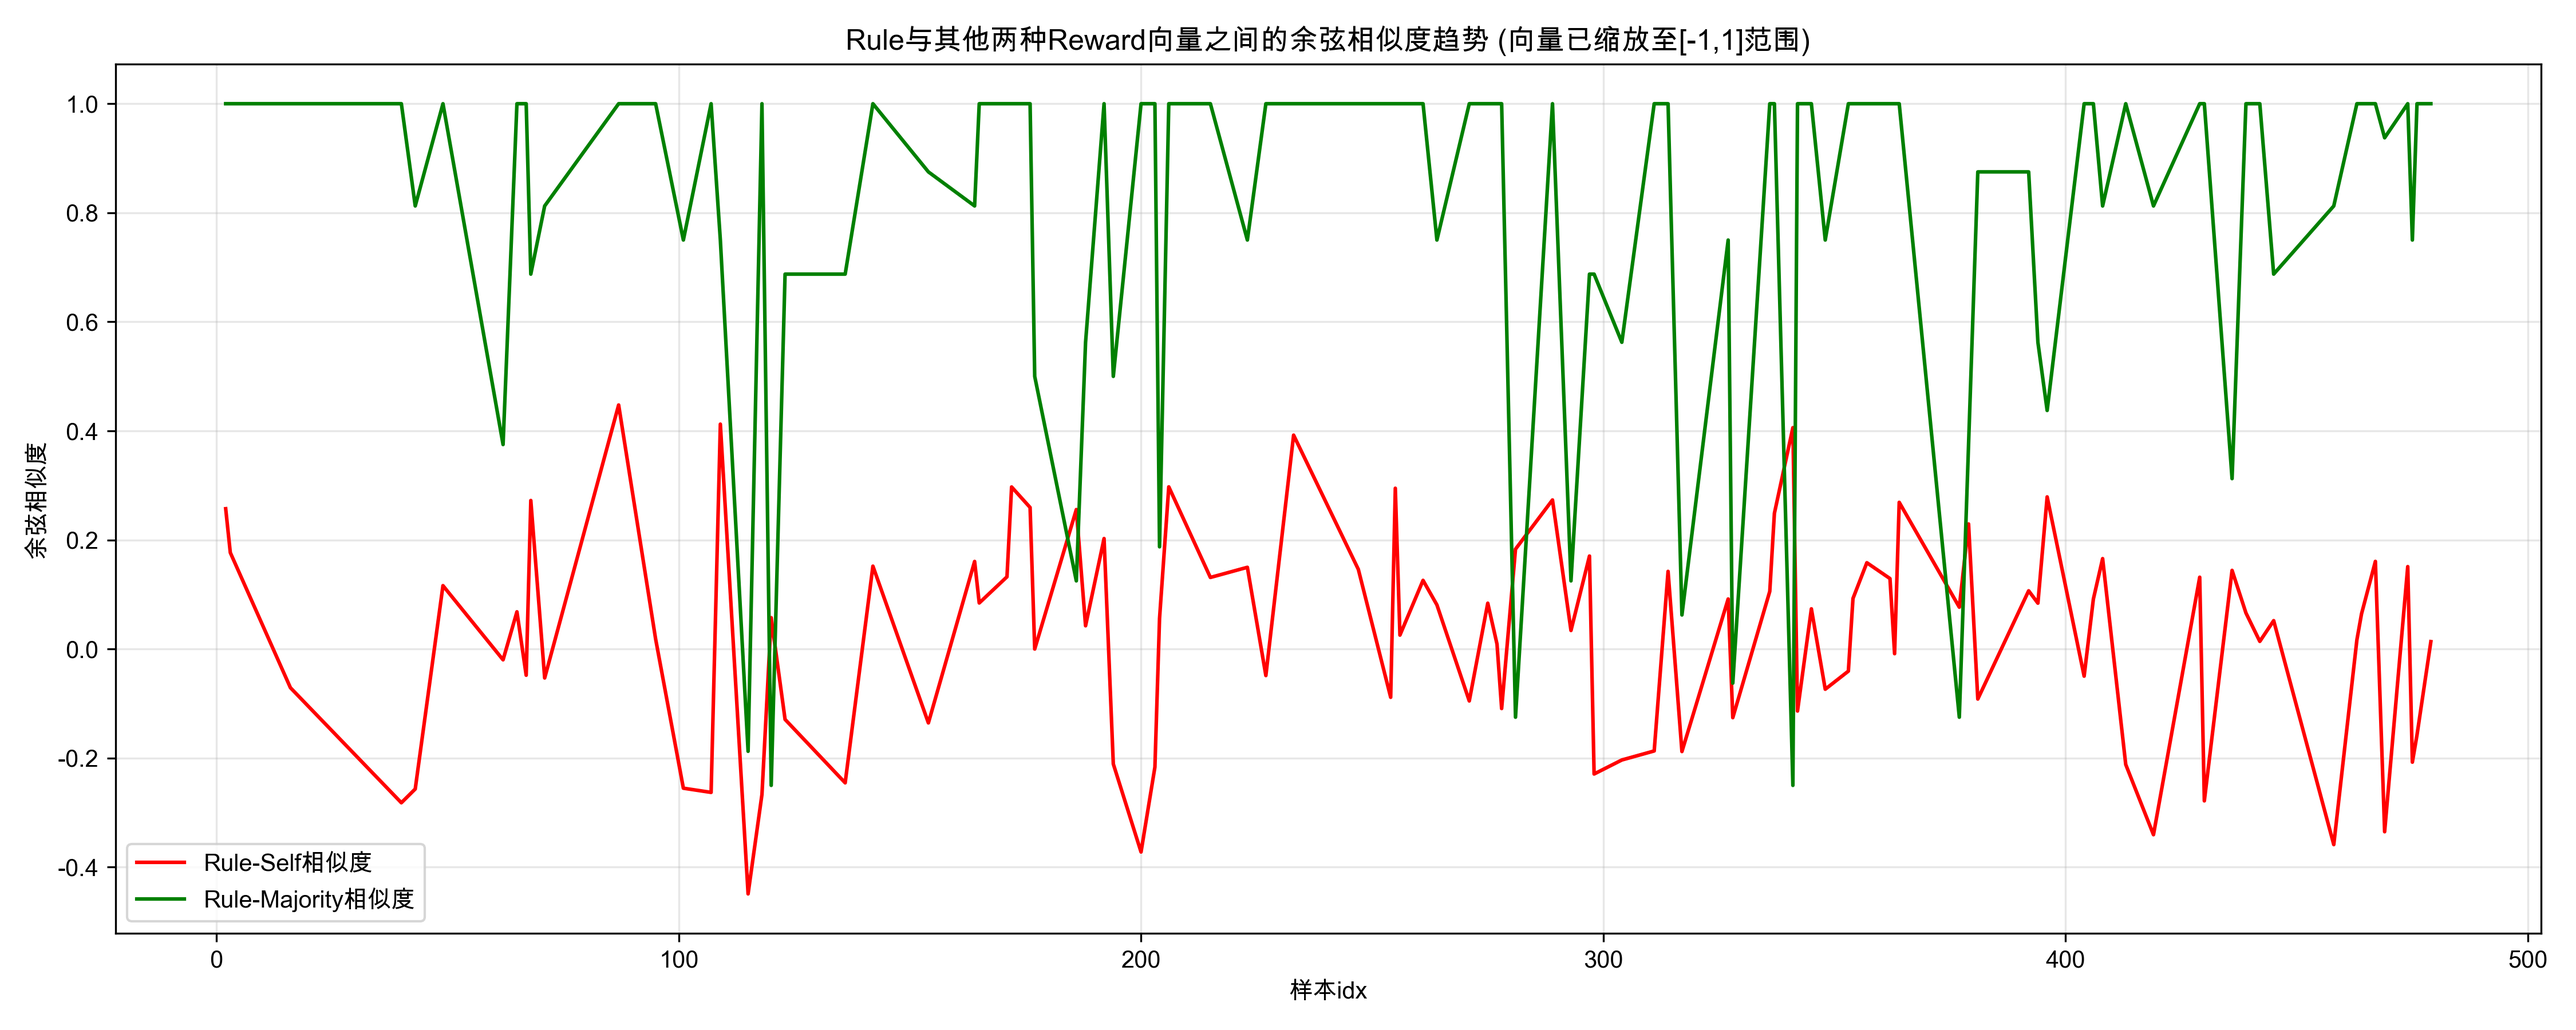
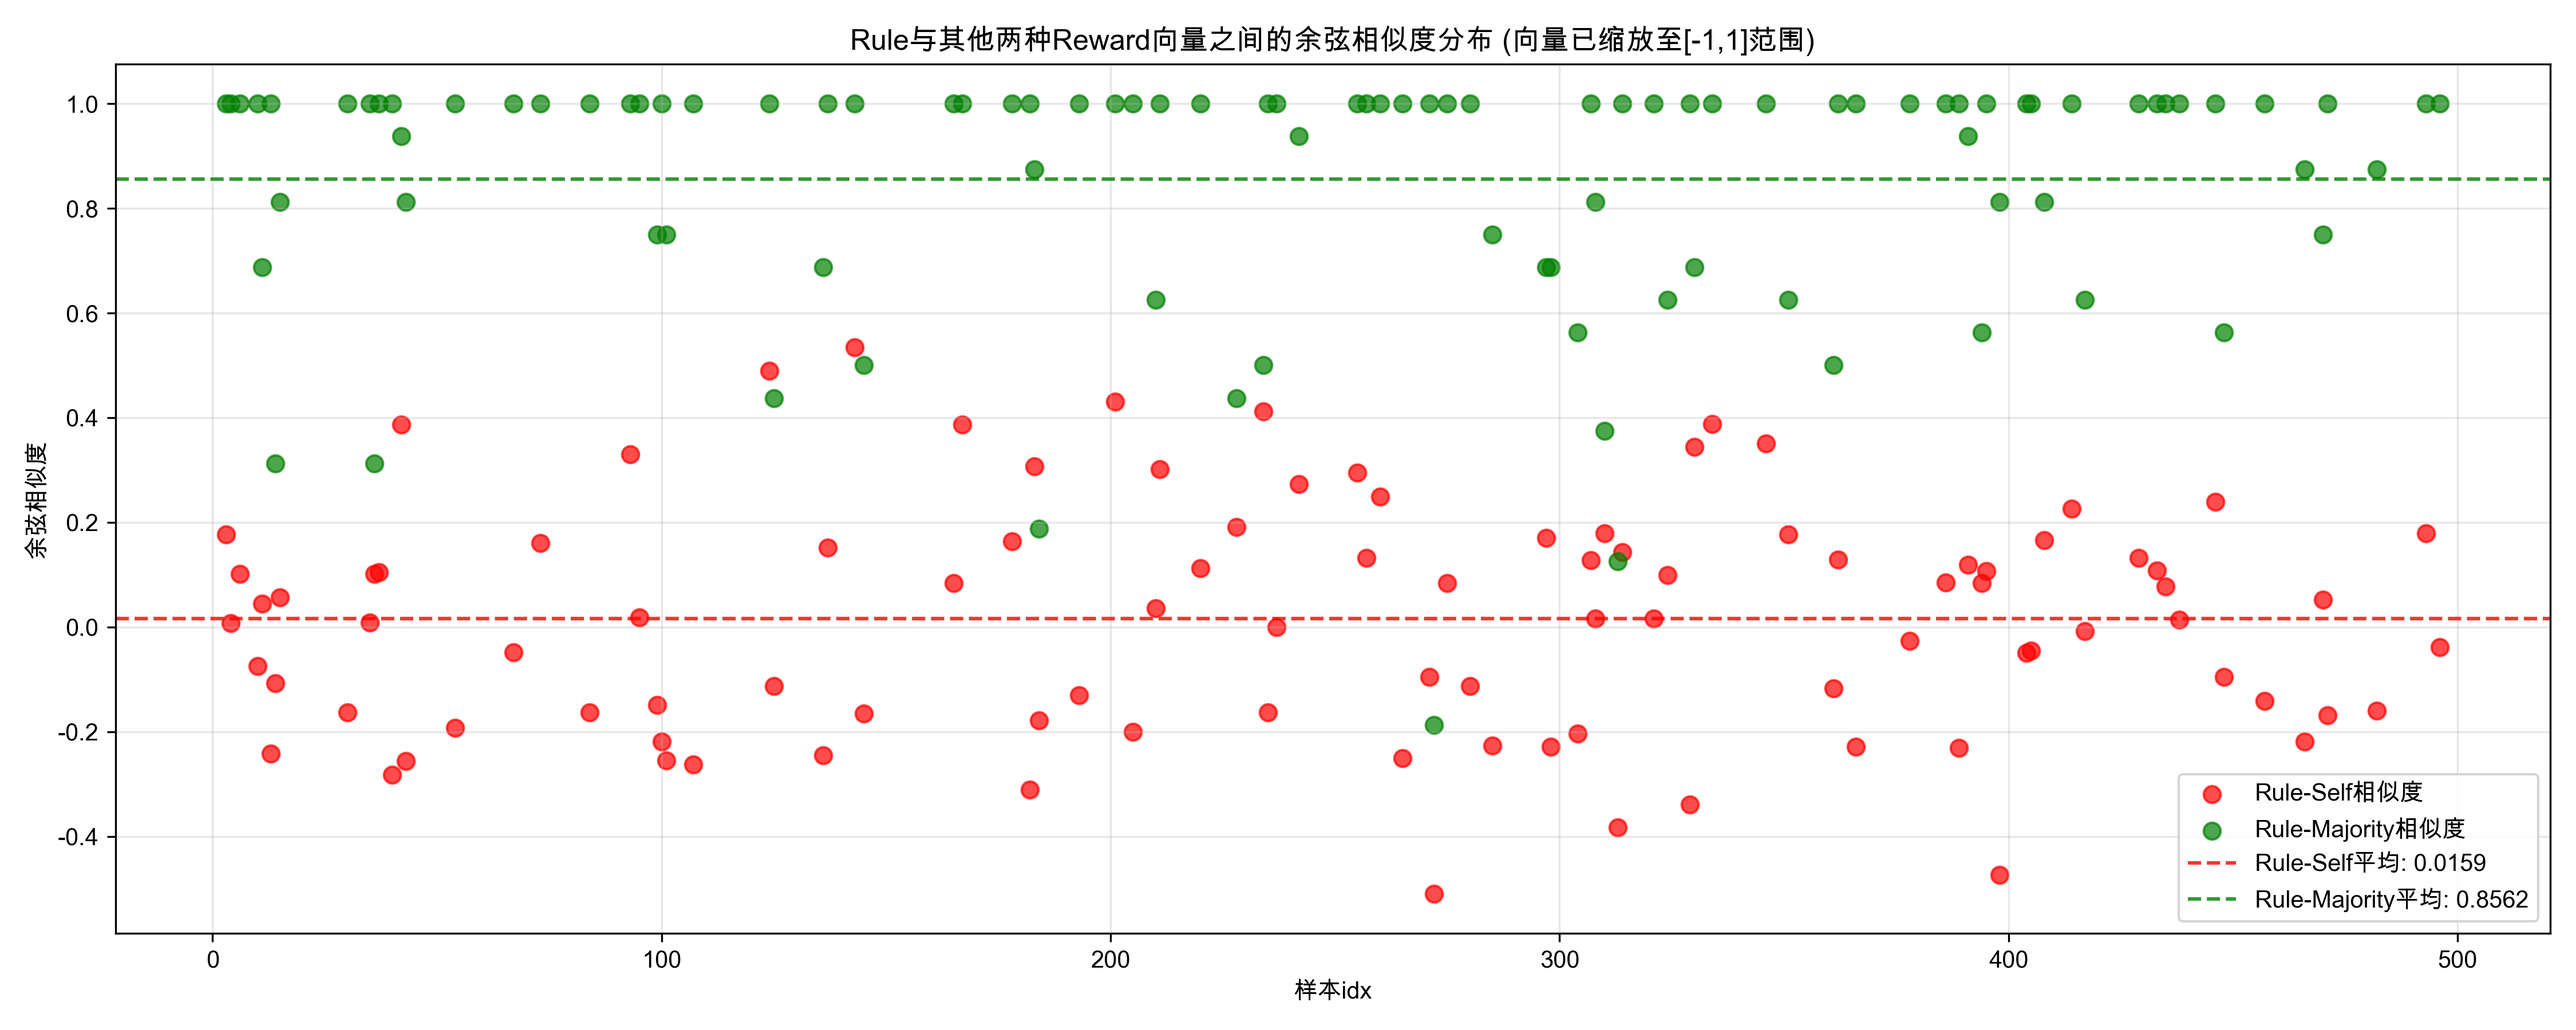
更新visualize_rewards.py，添加t-SNE降维可视化功能，优化了按idx排序的reward余弦相似度趋势图为散点图，并计算并显示平均相似度水平线。同时更新了相关的输出图像文件。

diff --git a/visualize_rewards.py b/visualize_rewards.py
@@ -9,6 +9,7 @@ import matplotlib
 from scipy.spatial.distance import cosine
 from sklearn.metrics.pairwise import cosine_similarity
 import os
+from sklearn.manifold import TSNE
 
 # 设置中文字体支持
 matplotlib.rcParams['font.sans-serif'] = ['SimHei', 'Arial Unicode MS', 'Microsoft YaHei', 'Heiti TC', 'WenQuanYi Zen Hei']  # 中文字体
@@ -227,7 +228,7 @@ def plot_scatter_matrix(df):
     print(f"已保存散点图矩阵: {output_path}")
 
 def plot_rewards_by_idx(df, data, sample_size=100):
-    """方案4: 绘制按idx排序的reward余弦相似度趋势图"""
+    """方案4: 绘制按idx排序的reward余弦相似度趋势图（散点表示）"""
     # 确保输出目录存在
     output_dir = "reward_visualizations"
     os.makedirs(output_dir, exist_ok=True)
@@ -270,12 +271,24 @@ def plot_rewards_by_idx(df, data, sample_size=100):
         rule_self_sim.append(rule_self)
         rule_maj_sim.append(rule_maj)
     
-    # 绘制趋势图
-    plt.figure(figsize=(15, 6))
-    plt.plot(idx_list, rule_self_sim, 'r-', label='Rule-Self相似度')
-    plt.plot(idx_list, rule_maj_sim, 'g-', label='Rule-Majority相似度')
+    # 计算平均相似度
+    avg_rule_self = np.mean(rule_self_sim)
+    avg_rule_maj = np.mean(rule_maj_sim)
     
-    plt.title('Rule与其他两种Reward向量之间的余弦相似度趋势 (向量已缩放至[-1,1]范围)')
+    # 绘制散点图
+    plt.figure(figsize=(15, 6))
+    
+    # 使用散点图而非折线图
+    plt.scatter(idx_list, rule_self_sim, color='red', alpha=0.7, s=50, label='Rule-Self相似度')
+    plt.scatter(idx_list, rule_maj_sim, color='green', alpha=0.7, s=50, label='Rule-Majority相似度')
+    
+    # 添加平均值水平线
+    plt.axhline(y=avg_rule_self, color='red', linestyle='--', alpha=0.8, 
+               label=f'Rule-Self平均: {avg_rule_self:.4f}')
+    plt.axhline(y=avg_rule_maj, color='green', linestyle='--', alpha=0.8, 
+               label=f'Rule-Majority平均: {avg_rule_maj:.4f}')
+    
+    plt.title('Rule与其他两种Reward向量之间的余弦相似度分布 (向量已缩放至[-1,1]范围)')
     plt.xlabel('样本idx')
     plt.ylabel('余弦相似度')
     plt.legend()
@@ -284,7 +297,7 @@ def plot_rewards_by_idx(df, data, sample_size=100):
     output_path = os.path.join(output_dir, "方案4_rewards_similarity_by_idx.png")
     plt.savefig(output_path, dpi=300)
     plt.close()
-    print(f"已保存余弦相似度趋势图: {output_path}")
+    print(f"已保存余弦相似度散点图: {output_path}")
 
 def plot_heatmap_by_sample(data, sample_size=20):
     """方案5: 绘制样本的reward热图"""
@@ -329,6 +342,100 @@ def plot_heatmap_by_sample(data, sample_size=20):
     plt.close()
     print(f"已保存样本热图: {output_path}")
 
+def plot_tsne(data, sample_size=100):
+    """方案6: 使用t-SNE降维可视化reward向量分布"""
+    # 确保输出目录存在
+    output_dir = "reward_visualizations"
+    os.makedirs(output_dir, exist_ok=True)
+    
+    # 如果数据太多，进行采样
+    if len(data) > sample_size:
+        indices = np.random.choice(len(data), sample_size, replace=False)
+        sampled_data = [data[i] for i in indices]
+    else:
+        sampled_data = data
+    
+    # 提取三种reward向量
+    rule_rewards = []
+    self_rewards = []
+    majority_rewards = []
+    idx_list = []
+    
+    # 将reward从0-1范围等比缩放到-1到1范围
+    def scale_to_neg1_pos1(reward_vector):
+        return [2 * r - 1 for r in reward_vector]  # r'= 2r - 1 将[0,1]映射到[-1,1]
+    
+    # 找到所有向量的最小长度
+    min_length = min(
+        min(len(entry['rule_rewards']) for entry in sampled_data),
+        min(len(entry['self_reward_rewards']) for entry in sampled_data),
+        min(len(entry['majority_rewards']) for entry in sampled_data)
+    )
+    
+    # 提取并处理向量
+    for entry in sampled_data:
+        rule_vec = scale_to_neg1_pos1(entry['rule_rewards'][:min_length])
+        self_vec = scale_to_neg1_pos1(entry['self_reward_rewards'][:min_length])
+        maj_vec = scale_to_neg1_pos1(entry['majority_rewards'][:min_length])
+        
+        rule_rewards.append(rule_vec)
+        self_rewards.append(self_vec)
+        majority_rewards.append(maj_vec)
+        idx_list.append(entry['idx'])
+    
+    # 合并所有向量用于t-SNE并转换为numpy数组
+    all_vectors = rule_rewards + self_rewards + majority_rewards
+    all_vectors = np.array(all_vectors)
+    
+    # 创建标签
+    labels = ['Rule'] * len(rule_rewards) + ['Self'] * len(self_rewards) + ['Majority'] * len(majority_rewards)
+    
+    # 执行t-SNE降维
+    tsne = TSNE(n_components=2, random_state=42, perplexity=min(30, len(all_vectors)-1))
+    reduced_data = tsne.fit_transform(all_vectors)
+    
+    # 创建DataFrame方便绘图
+    df_tsne = pd.DataFrame({
+        'x': reduced_data[:, 0],
+        'y': reduced_data[:, 1],
+        'reward_type': labels,
+        'idx': idx_list * 3  # 每个idx重复三次，对应三种reward
+    })
+    
+    # 绘制t-SNE图
+    plt.figure(figsize=(12, 10))
+    
+    # 使用不同颜色区分不同reward类型
+    palette = {'Rule': 'blue', 'Self': 'orange', 'Majority': 'green'}
+    sns.scatterplot(
+        data=df_tsne,
+        x='x', y='y',
+        hue='reward_type',
+        palette=palette,
+        alpha=0.7,
+        s=100
+    )
+    
+    # 添加部分样本的idx标签
+    if len(sampled_data) <= 20:
+        # 如果样本较少，为所有点添加idx标签
+        for i, row in df_tsne[df_tsne['reward_type'] == 'Rule'].iterrows():
+            plt.text(row['x'], row['y'], str(row['idx']), fontsize=8)
+    else:
+        # 如果样本较多，只为部分点添加idx标签
+        for i, row in df_tsne[df_tsne['reward_type'] == 'Rule'].sample(20).iterrows():
+            plt.text(row['x'], row['y'], str(row['idx']), fontsize=8)
+    
+    plt.title('三种Reward向量的t-SNE可视化 (向量已缩放至[-1,1]范围)')
+    plt.xlabel('t-SNE维度1')
+    plt.ylabel('t-SNE维度2')
+    plt.tight_layout()
+    
+    output_path = os.path.join(output_dir, "方案6_tsne_visualization.png")
+    plt.savefig(output_path, dpi=300)
+    plt.close()
+    print(f"已保存t-SNE可视化: {output_path}")
+
 def main():
     # 确保输出目录存在
     output_dir = "reward_visualizations"
@@ -357,6 +464,9 @@ def main():
     
     # 方案5: 绘制样本的reward热图
     plot_heatmap_by_sample(data)
+    
+    # 方案6: 使用t-SNE降维可视化reward向量分布
+    plot_tsne(data)
 
 if __name__ == "__main__":
     main()
